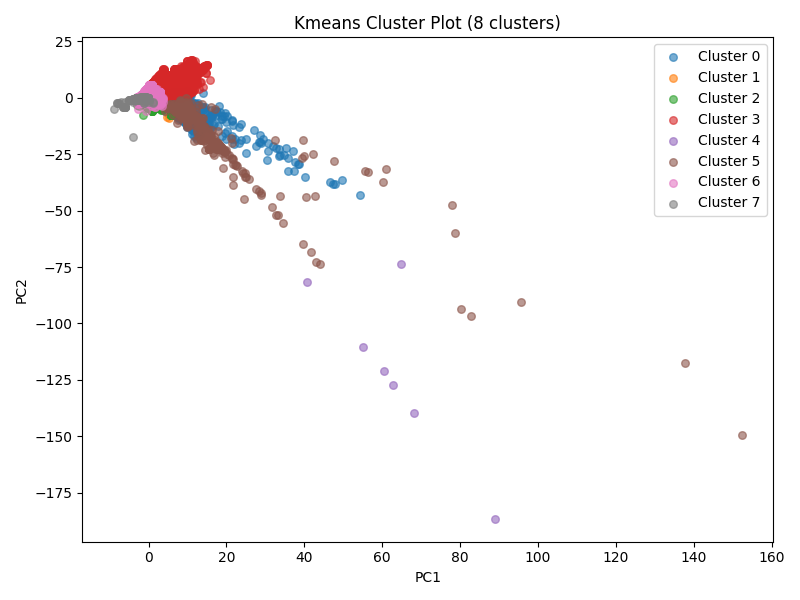
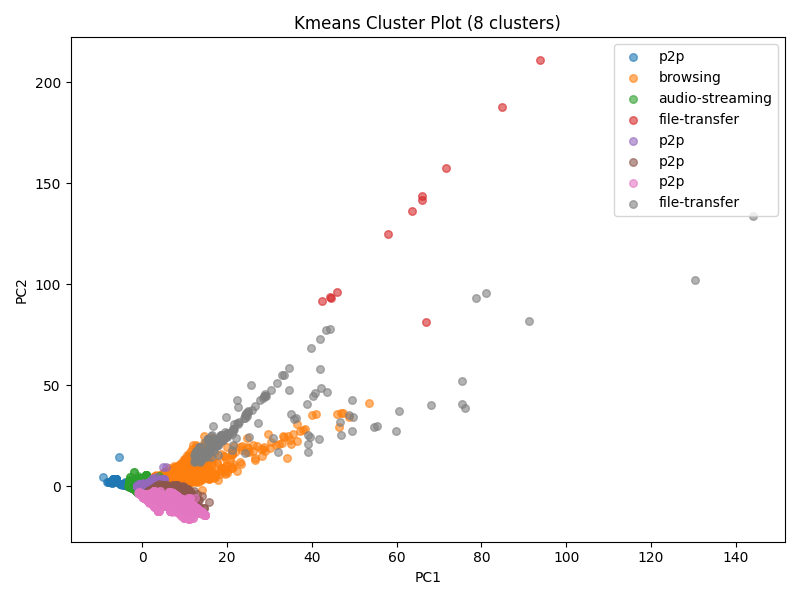
pushed the cluster labeling stuff

diff --git a/darknet/src/clustering.py b/darknet/src/clustering.py
@@ -12,11 +12,13 @@ from processing import Data
 class Cluster:
     def __init__(self, data: Data, model_name: str):
         self.data = data
-        self.features = data.X_train_scaled + data.X_test_scaled
+        self.features = np.vstack((data.X_train_scaled, data.X_test_scaled))
+        
+        self.labels = np.concatenate((data.Y_train, data.Y_test))
 
         self.model_name = model_name
 
-        self.clusters = []
+        self.clusters = None
         self.n_clusters = 0
 
         self.silhouette = 0
@@ -24,8 +26,10 @@ class Cluster:
 
     def fit(self, **kwargs):
         if self.model_name == 'kmeans':
+            print("Training kmeans model...")
             n_clusters = kwargs.get('n_clusters', 8)
             self.model = KMeans(n_clusters=n_clusters)
+            self.clusters = self.model.fit_predict(self.features)
         
         elif (self.model_name == 'dbscan'):
             eps = kwargs.get('eps', 0.5)
@@ -48,6 +52,7 @@ class Cluster:
     def draw(self, filepath='darknet/graphs/clusters'):
         """
             Draw graph which visualizes the results of the model
+            Labels each cluster by the majority of traffic in it
         """
         
         filepath = filepath + f'/{self.model_name}/'
@@ -65,8 +70,24 @@ class Cluster:
             mask = (self.clusters == label)
             if label == -1:
                 label_name = 'Noise'
+            elif self.model_name == 'kmeans':
+                # find majority of traffic in cluster
+                #codes = self.labels[mask]
+                #if codes.size > 0:
+                    #majority_code = np.bincount(codes).argmax()
+                    #map code back to family name based on most prevalent traffic in each cluster
+                    #label_name = self.data.le.inverse_transform([majority_code])[0]
+                #else:
+                    #label_name = "Empty"
+                family_codes = self.data.label_family[mask]
+                if family_codes.size > 0:
+                    majority_family = np.bincount(family_codes).argmax()
+                    label_name = self.data.family_le.inverse_transform([majority_family])[0]
+                else:
+                    label_name = "Empty"
             else:
-                label_name = f'Cluster {label}'
+                label_name = f"Cluster {label}"
+                
             plt.scatter(
                 points_2d[mask, 0],
                 points_2d[mask, 1],
@@ -82,3 +103,4 @@ class Cluster:
         plt.legend()
         plt.tight_layout()
         plt.savefig(filepath)
+        plt.close()

diff --git a/darknet/src/main.py b/darknet/src/main.py
@@ -36,14 +36,17 @@ def main():
     # TODO - make sure data analysis works
     # data.analyze_columns()
     
-    '''
+    
     cluster = clustering.Cluster(benign, model_name='kmeans')
-    cluster.fit(n_clusters=8)
+    cluster.fit(n_clusters=3)
     cluster.evaluate()
     cluster.draw()
-    '''
     
-    results = compare_models(data)
+    #results = compare_models(data)
+    #graphs  = comparison_graphs.ComparisonGraphs(results)
+    #graphs.plot_runtime_comparison()
+    
+    #results = compare_models(data)
     #graphs = comparison_graphs.ComparisonGraphs(results)
     #graphs.plot_roc_curves(model_name="Random Forest", class_label=2)
     #graphs.plot_precision_recall_curves(model_name="Random Forest", class_label=2)

diff --git a/darknet/src/processing.py b/darknet/src/processing.py
@@ -213,6 +213,10 @@ class Data:
         self.X_train_scaled = scaler.fit_transform(self.X_train)
         self.X_test_scaled = scaler.transform(self.X_test)
         
+        self.family_le = LabelEncoder()
+        self.label_family = self.family_le.fit_transform(self.data['label'])
+
+        
     def drop_columns(self, columns: list):
         '''
         Drop a column from the dataset
